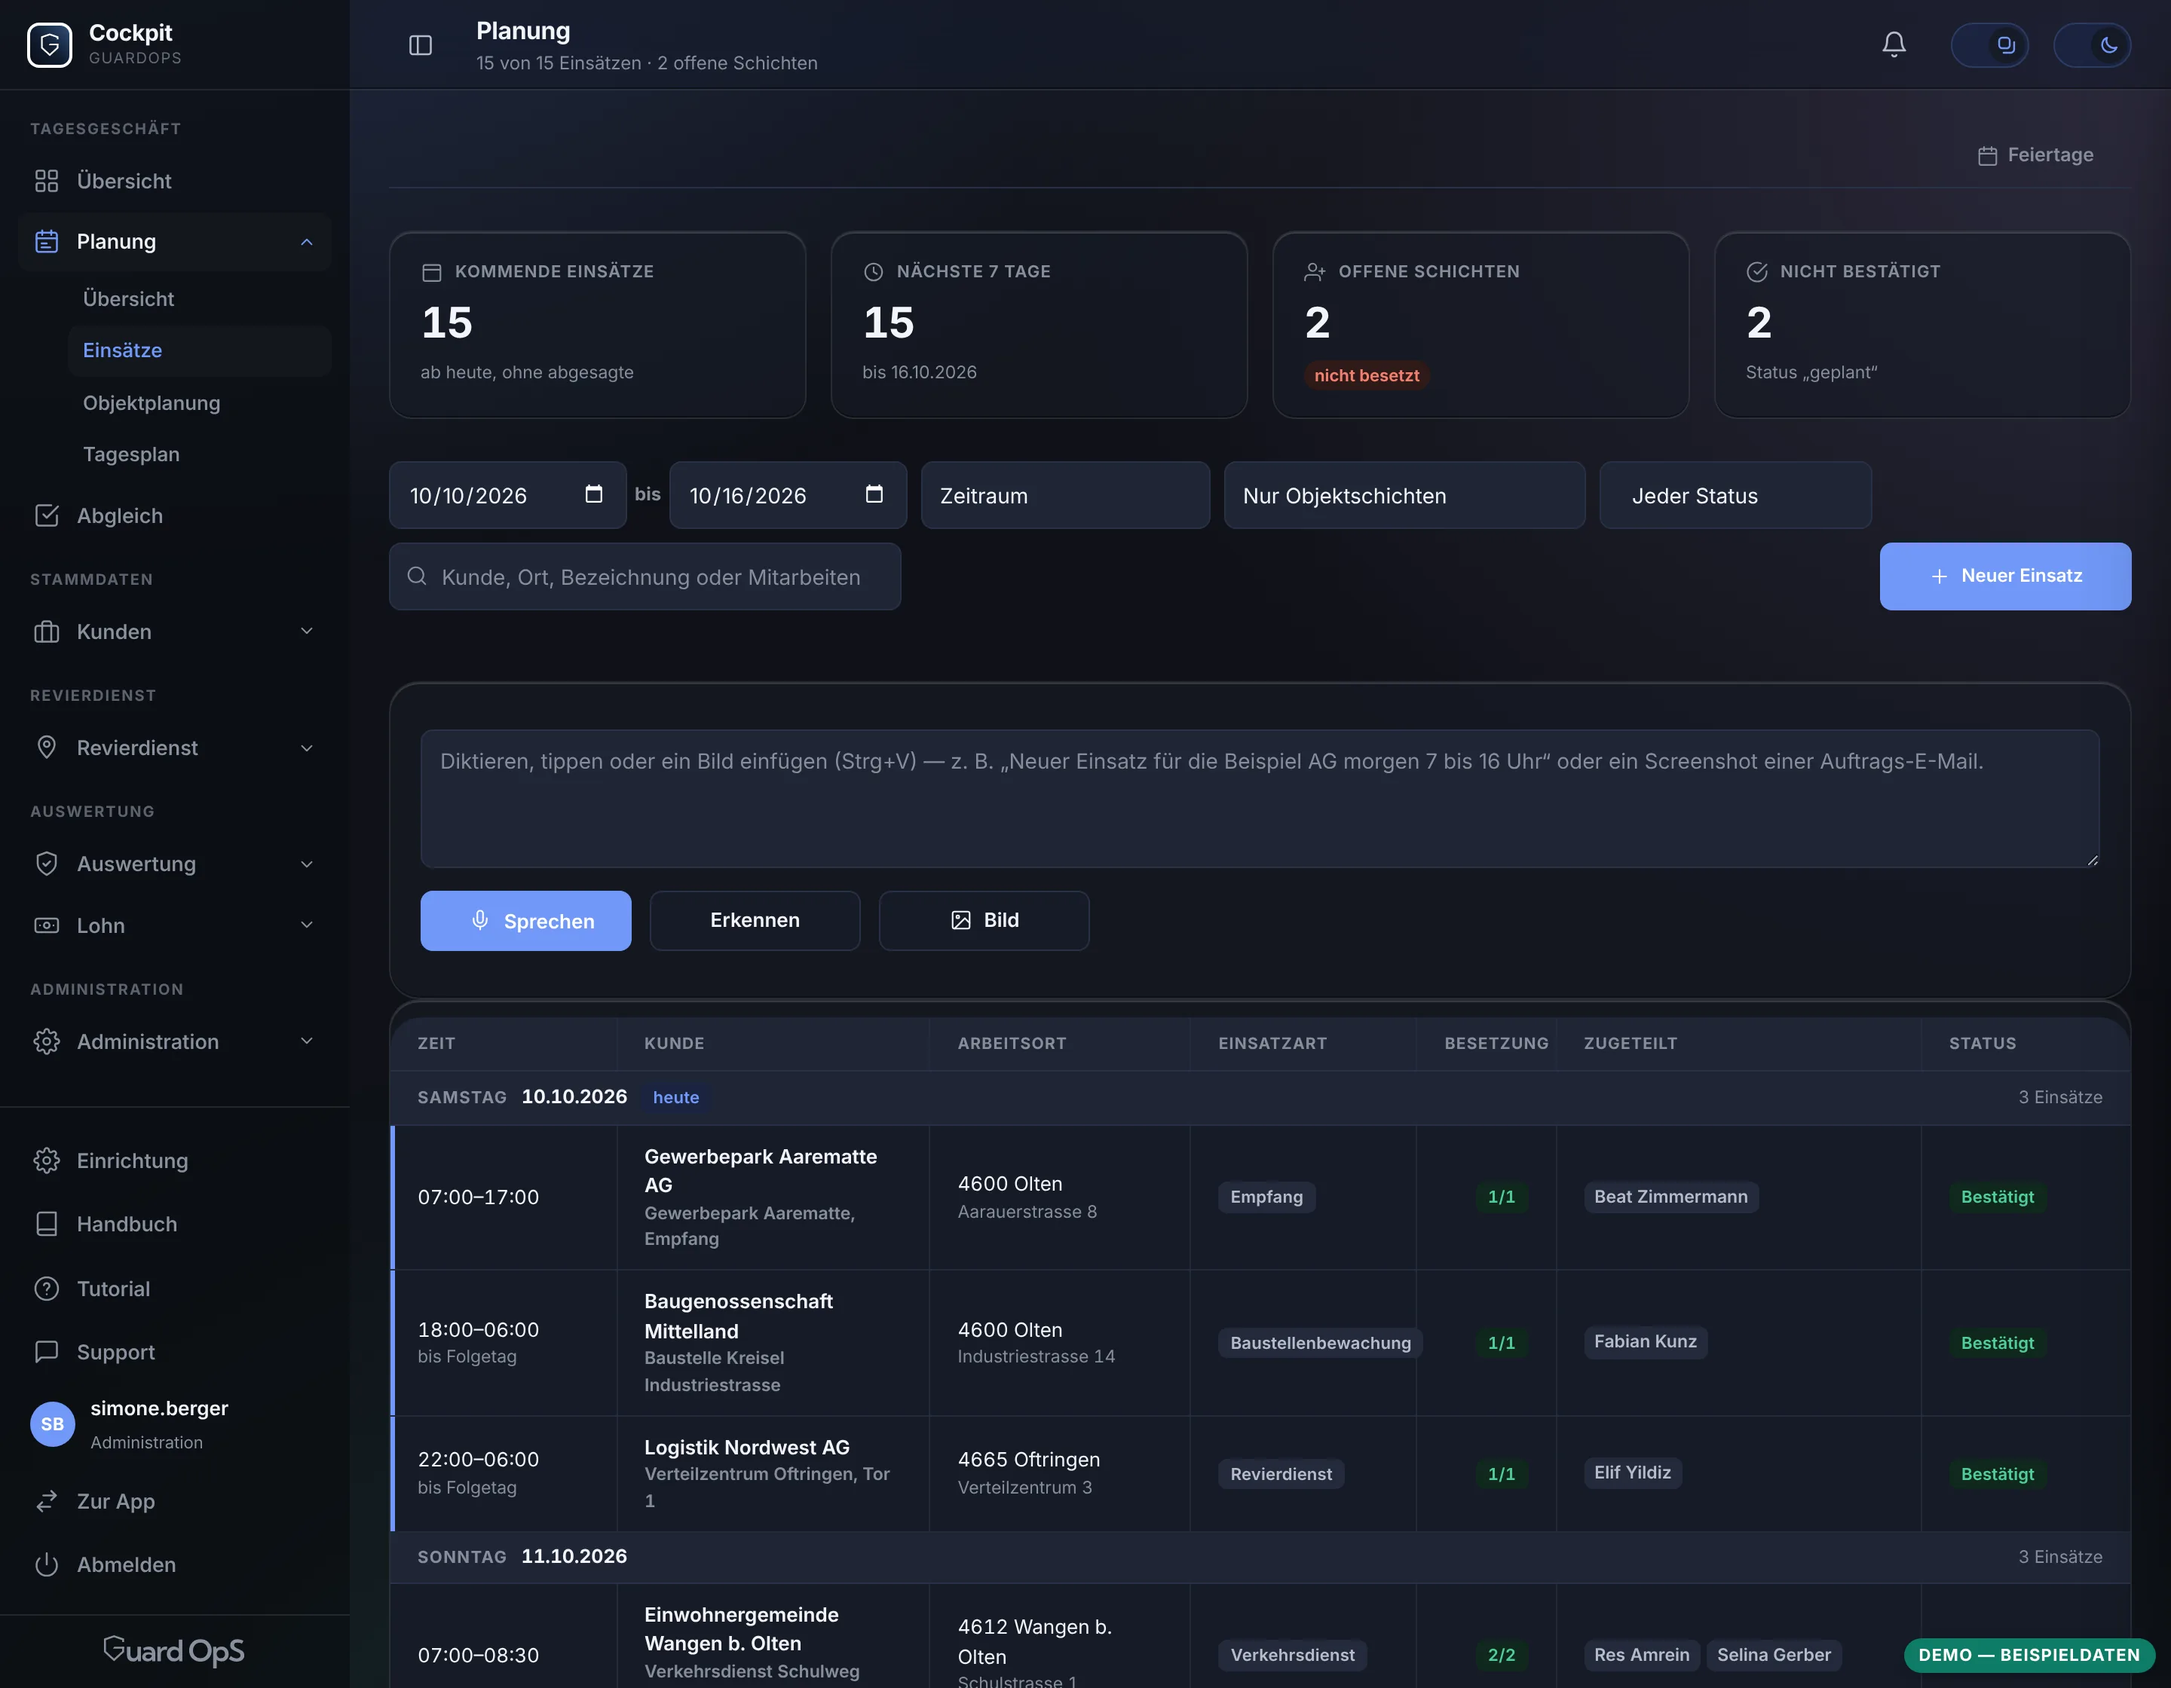
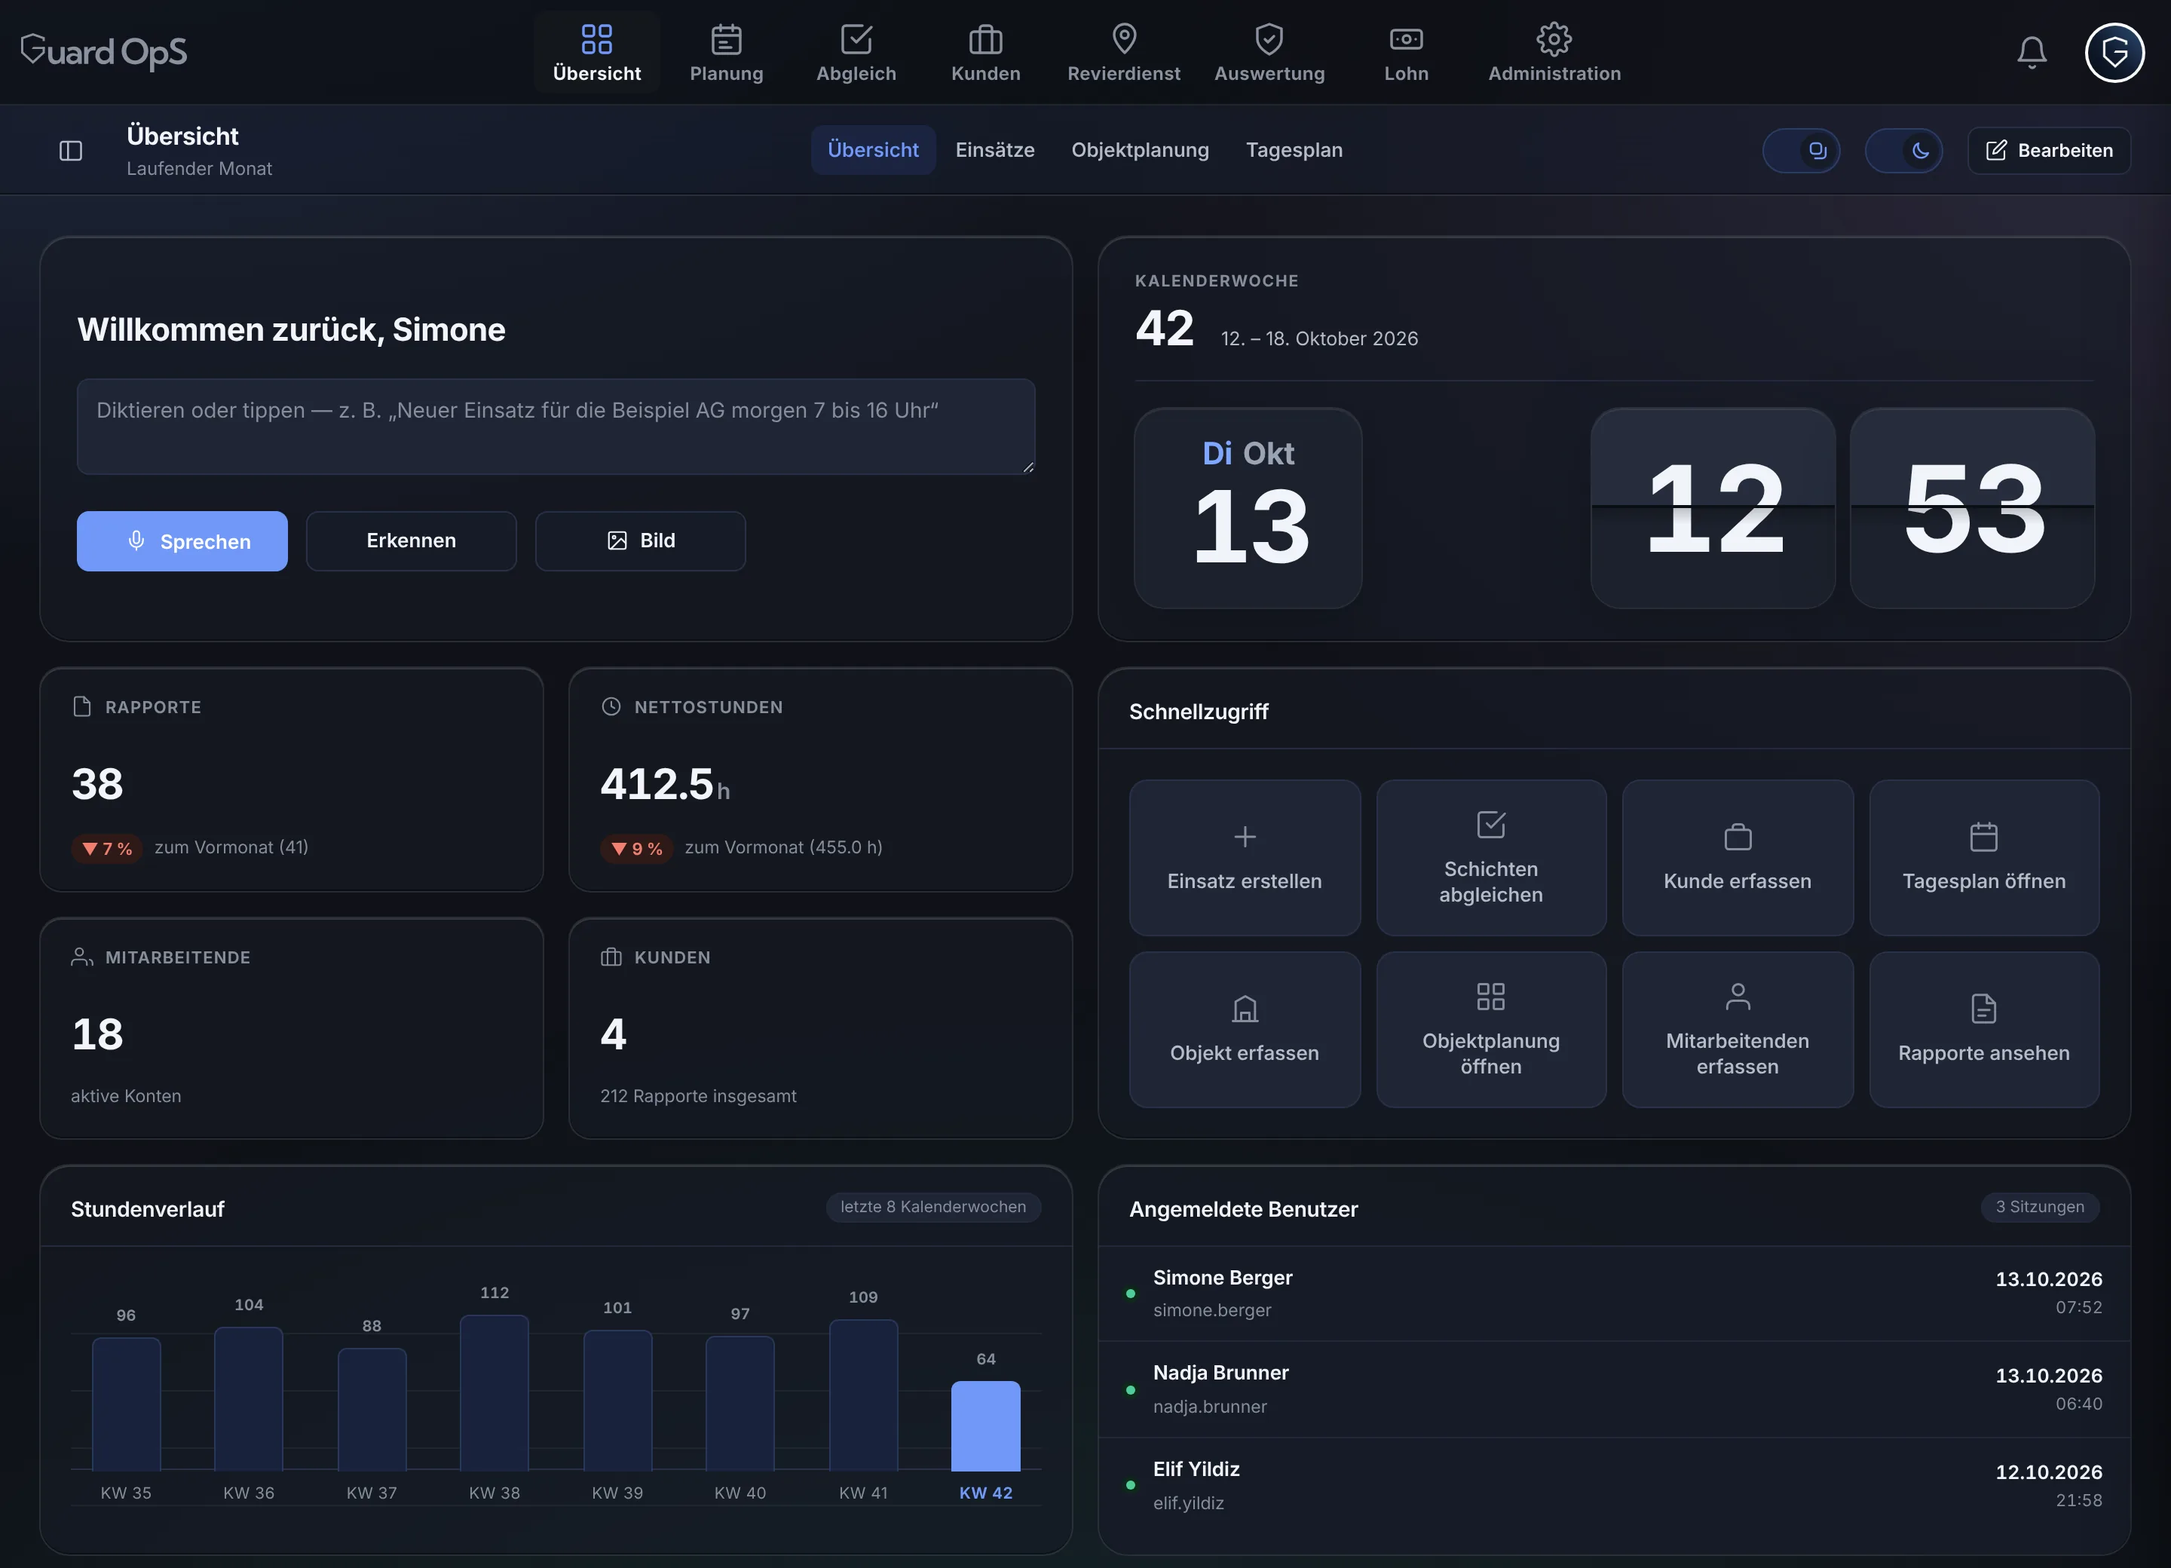
Homepage: Cockpit-Foto in der Reiter-Ansicht, Bereich Übersicht
Das Kopfbild zeigt das Cockpit jetzt mit der Symbolleiste oben und der
Übersicht (Kalenderwoche, Kennzahlen, Schnellzugriff, Stundenverlauf),
so wie der Projektinhaber es als Vorlage gezeigt hat. Weiterhin
Beispieldaten der Demo-Umgebung.

Claude-Session: https://claude.ai/code/session_018fKgMUU9z8degVg999EGTa

diff --git a/homepage.html b/homepage.html
@@ -13,7 +13,8 @@
   (Cockpit, App) sind durch ECHTE BILDSCHIRMFOTOS ersetzt -- homepage-bilder/
   cockpit.webp und homepage-bilder/app.webp (eigener Ordner, nicht img/:
   img/ wandert komplett ins Handy-Buendel, die Fotos gehoeren dort nicht hin). Die Fotos zeigen das ausgelieferte
-  Cockpit (dashboard.html) und die ausgelieferte App (app.html) mit den
+  Cockpit (dashboard.html, Reiter-Ansicht mit Symbolleiste oben, Bereich
+  Uebersicht) und die ausgelieferte App (app.html) mit den
   Beispieldaten der Demo-Umgebung (backend/demo_daten.php: erfundener
   Betrieb, erfundene Personen, Kunden und Objekte). Aufgenommen mit
   Playwright gegen einen vorgetaeuschten Server, so wie die Pruefungen
@@ -433,8 +434,8 @@ p{margin:0 0 1em}
     <!-- Echtes Bildschirmfoto, siehe Dateikopf. width/height = Bildmasse,
          damit der Platz vor dem Laden feststeht. -->
     <figure class="foto">
-      <img src="homepage-bilder/cockpit.webp" width="2880" height="2240" alt="Das Cockpit, Bereich Planung: Kennzahlen zu kommenden Einsätzen und offenen Schichten, darunter die Einsätze der nächsten Tage mit Objekt, Einsatzart, Besetzung und Status. Beispieldaten der Demo-Umgebung." fetchpriority="high">
-      <figcaption>Cockpit · Planung · Beispieldaten der Demo-Umgebung</figcaption>
+      <img src="homepage-bilder/cockpit.webp" width="2880" height="2080" alt="Das Cockpit in der Reiter-Ansicht, Bereich Übersicht: Symbolleiste oben mit Übersicht, Planung, Abgleich, Kunden, Revierdienst, Auswertung, Lohn und Administration; darunter Diktatfeld, Kalenderwoche, Kennzahlen zu Rapporten, Stunden, Mitarbeitenden und Kunden, Schnellzugriff, Stundenverlauf und angemeldete Benutzer. Beispieldaten der Demo-Umgebung." fetchpriority="high">
+      <figcaption>Cockpit · Übersicht · Beispieldaten der Demo-Umgebung</figcaption>
     </figure>
   </div>
 </section>
